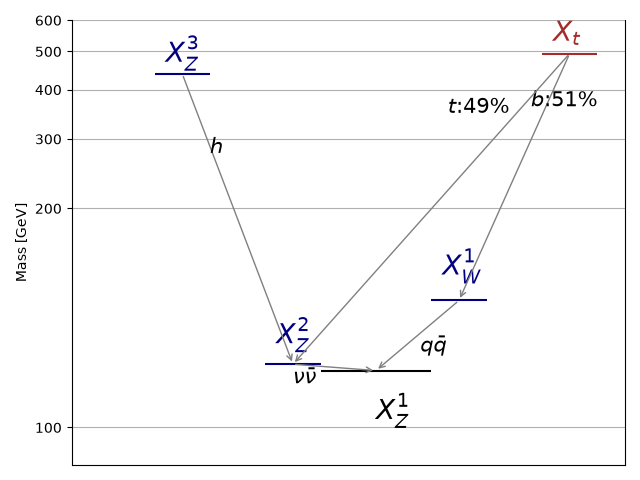
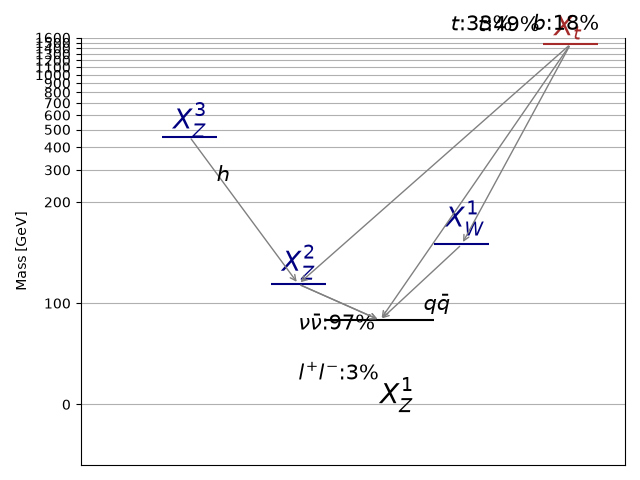
automated update by plotHiscore.py to rundir5_320:     K=11.884 TL=22.13 walkerid=506

diff --git a/protomodels/rundir5_320/rawnumbers.html b/protomodels/rundir5_320/rawnumbers.html
@@ -1,117 +1,11 @@
 <table>
 <tr><th>Analysis Name</th><th>Type</th><th>Dataset</th><th>Topos</th><th>Observed</th><th>Expected</th><th>Approx &sigma;</th><th>Particles</th>
 </tr>
-<tr><td><a href=https://atlas.web.cern.ch/Atlas/GROUPS/PHYSICS/PAPERS/EXOT-2018-06/>ATLAS-EXOT-2018-06</a></td><td>em</td> <td>EM10</td><td>TChiISR, TChiZISRqq</td><td>413</td><td>359.00 +/- 10.00</td><td style="text-align:right">2.5 &sigma;</td><td style="text-align:right">X<sup>1</sup><sub>W</sub>, X<sup>2</sup><sub>Z</sub>, X<sup>1</sup><sub>Z</sub></td></tr>
-<tr><td><a href=http://cms-results.web.cern.ch/cms-results/public-results/publications/EXO-20-004/>CMS-EXO-20-004</a></td><td>comb</td> <td>-</td><td>TChiISR, TChiZISRqq</td><td> 1e+02 fb </td><td> 9e+01 fb</td><td style="text-align:right">2.4 &sigma;</td><td style="text-align:right">X<sup>1</sup><sub>W</sub>, X<sup>2</sup><sub>Z</sub>, X<sup>1</sup><sub>Z</sub></td></tr>
-<tr><td><a href=http://cms-results.web.cern.ch/cms-results/public-results/publications/SUS-20-004/>CMS-SUS-20-004</a></td><td>comb</td> <td>-</td><td>TChiHH</td><td> 0.3 fb </td><td> 0.2 fb</td><td style="text-align:right">2.2 &sigma;</td><td style="text-align:right">X<sup>3</sup><sub>Z</sub>, X<sup>2</sup><sub>Z</sub>, X<sup>1</sup><sub>Z</sub></td></tr>
-<tr><td><a href=https://atlas.web.cern.ch/Atlas/GROUPS/PHYSICS/PAPERS/SUSY-2018-12/>ATLAS-SUSY-2018-12</a></td><td>em</td> <td>SRBTT</td><td>T2tt</td><td>67</td><td>46.00 +/- 7.00</td><td style="text-align:right">2.0 &sigma;</td><td style="text-align:right">X<sup>1</sup><sub>Z</sub>, X<sub>t</sub></td></tr>
-<tr><td><a href=https://atlas.web.cern.ch/Atlas/GROUPS/PHYSICS/PAPERS/SUSY-2016-16/>ATLAS-SUSY-2016-16</a></td><td>em</td> <td>tN_med</td><td>T2tt</td><td>50</td><td>36.30 +/- 6.60</td><td style="text-align:right">1.4 &sigma;</td><td style="text-align:right">X<sup>1</sup><sub>Z</sub>, X<sub>t</sub></td></tr>
-<tr><td><a href=https://atlas.web.cern.ch/Atlas/GROUPS/PHYSICS/PAPERS/SUSY-2018-08/>ATLAS-SUSY-2018-08</a></td><td>em</td> <td>SRSF140</td><td>T2tt</td><td>9</td><td>5.10 +/- 0.90</td><td style="text-align:right">1.3 &sigma;</td><td style="text-align:right">X<sup>1</sup><sub>Z</sub>, X<sub>t</sub></td></tr>
-<tr><td><a href=https://twiki.cern.ch/twiki/bin/view/CMSPublic/PhysicsResultsSUS13015>CMS-PAS-SUS-13-015</a></td><td>em</td> <td>pTmiss350_Nb2</td><td>T2tt</td><td>15</td><td>8.60 +/- 7.10</td><td style="text-align:right">0.8 &sigma;</td><td style="text-align:right">X<sup>1</sup><sub>Z</sub>, X<sub>t</sub></td></tr>
-<tr><td><a href=https://atlas.web.cern.ch/Atlas/GROUPS/PHYSICS/PAPERS/SUSY-2013-16/>ATLAS-SUSY-2013-16</a></td><td>em</td> <td>SRA4</td><td>T2tt</td><td>4</td><td>2.40 +/- 0.70</td><td style="text-align:right">0.7 &sigma;</td><td style="text-align:right">X<sup>1</sup><sub>Z</sub>, X<sub>t</sub></td></tr>
-<tr><td><a href=https://atlas.web.cern.ch/Atlas/GROUPS/PHYSICS/PAPERS/SUSY-2013-15/>ATLAS-SUSY-2013-15</a></td><td>em</td> <td>tNboost</td><td>T2tt</td><td>5</td><td>3.30 +/- 0.70</td><td style="text-align:right">0.7 &sigma;</td><td style="text-align:right">X<sup>1</sup><sub>Z</sub>, X<sub>t</sub></td></tr>
-<tr><td><a href=http://cms-results.web.cern.ch/cms-results/public-results/publications/SUS-16-050/index.html>CMS-SUS-16-050-agg</a></td><td>comb</td> <td>-</td><td>T2tt</td><td> 2 fb </td><td> 2 fb</td><td style="text-align:right">0.1 &sigma;</td><td style="text-align:right">X<sup>2</sup><sub>Z</sub>, X<sup>1</sup><sub>Z</sub>, X<sub>t</sub></td></tr>
-<tr><td><a href=https://cms-results.web.cern.ch/cms-results/public-results/publications/SUS-13-011/index.html>CMS-SUS-13-011</a></td><td>em</td> <td>LM150</td><td>T2tt</td><td>227</td><td>251.00 +/- 50.00</td><td style="text-align:right">-0.5 &sigma;</td><td style="text-align:right">X<sup>1</sup><sub>Z</sub>, X<sub>t</sub></td></tr>
-<tr><td><a href=https://atlas.web.cern.ch/Atlas/GROUPS/PHYSICS/CONFNOTES/ATLAS-CONF-2013-048/>ATLAS-CONF-2013-048</a></td><td>em</td> <td>SR M90</td><td>T2tt</td><td>260</td><td>300.00 +/- 40.00</td><td style="text-align:right">-0.9 &sigma;</td><td style="text-align:right">X<sup>1</sup><sub>Z</sub>, X<sub>t</sub></td></tr>
+<tr><td><a href=https://atlas.web.cern.ch/Atlas/GROUPS/PHYSICS/PAPERS/SUSY-2018-16/>ATLAS-SUSY-2018-16-hino</a></td><td>em</td> <td>SR_ewk_2l_med</td><td>TChiZoff</td><td>170</td><td>112.40 +/- 12.60</td><td style="text-align:right">3.3 &sigma;</td><td style="text-align:right">X<sup>2</sup><sub>Z</sub>, X<sup>1</sup><sub>Z</sub></td></tr>
+<tr><td><a href=http://cms-results.web.cern.ch/cms-results/public-results/publications/EXO-20-004/>CMS-EXO-20-004</a></td><td>comb</td> <td>-</td><td>TChiISR, TChiZISRll, TChiZISRqq</td><td> 2e+02 fb </td><td> 1e+02 fb</td><td style="text-align:right">3.0 &sigma;</td><td style="text-align:right">X<sup>1</sup><sub>W</sub>, X<sup>2</sup><sub>Z</sub>, X<sup>1</sup><sub>Z</sub></td></tr>
+<tr><td><a href=https://atlas.web.cern.ch/Atlas/GROUPS/PHYSICS/PAPERS/EXOT-2018-06/>ATLAS-EXOT-2018-06</a></td><td>em</td> <td>EM10</td><td>TChiISR, TChiZISRll, TChiZISRqq</td><td>413</td><td>359.00 +/- 10.00</td><td style="text-align:right">2.4 &sigma;</td><td style="text-align:right">X<sup>1</sup><sub>W</sub>, X<sup>2</sup><sub>Z</sub>, X<sup>1</sup><sub>Z</sub></td></tr>
+<tr><td><a href=http://cms-results.web.cern.ch/cms-results/public-results/publications/SUS-20-004/>CMS-SUS-20-004</a></td><td>comb</td> <td>-</td><td>TChiHH</td><td> 0.3 fb </td><td> 0.2 fb</td><td style="text-align:right">2.1 &sigma;</td><td style="text-align:right">X<sup>3</sup><sub>Z</sub>, X<sup>2</sup><sub>Z</sub></td></tr>
 </table>
 <table style='color:grey'>
-<tr><th>Not in Best Combo</th><th>Type</th><th>Dataset</th><th>Topos</th><th>Observed</th><th>Expected</th><th>Approx &sigma;</th><th>Particles</th><tr><td><a href=https://atlas.web.cern.ch/Atlas/GROUPS/PHYSICS/PAPERS/SUSY-2015-02/>ATLAS-SUSY-2015-02</a></td><td>em</td> <td>SR1</td><td>T2tt</td><td>12</td><td>5.50 +/- 0.72</td><td style="text-align:right">2.2 &sigma;</td><td style="text-align:right">X<sup>1</sup><sub>Z</sub>, X<sub>t</sub></td></tr>
-<tr><td><a href=https://atlas.web.cern.ch/Atlas/GROUPS/PHYSICS/CONFNOTES/ATLAS-CONF-2013-047/>ATLAS-CONF-2013-047</a></td><td>em</td> <td>E Loose</td><td>T2tt</td><td>166</td><td>113.00 +/- 21.00</td><td style="text-align:right">2.2 &sigma;</td><td style="text-align:right">X<sup>1</sup><sub>Z</sub>, X<sub>t</sub></td></tr>
-<tr><td><a href=https://cms-results.web.cern.ch/cms-results/public-results/publications/SUS-13-012/index.html>CMS-SUS-13-012</a></td><td>em</td> <td>6NJet8_500HT800 ...</td><td>T2tt, T6bbWWoff</td><td>9</td><td>0.80 +/- 3.30</td><td style="text-align:right">1.9 &sigma;</td><td style="text-align:right">X<sup>1</sup><sub>W</sub>, X<sup>1</sup><sub>Z</sub>, X<sub>t</sub></td></tr>
-<tr><td><a href=https://atlas.web.cern.ch/Atlas/GROUPS/PHYSICS/CONFNOTES/ATLAS-CONF-2013-047/>ATLAS-CONF-2013-047</a></td><td>em</td> <td>A Loose</td><td>T2tt</td><td>5333</td><td>4700.00 +/- 500.00</td><td style="text-align:right">1.3 &sigma;</td><td style="text-align:right">X<sup>1</sup><sub>Z</sub>, X<sub>t</sub></td></tr>
-<tr><td><a href=https://cms-results.web.cern.ch/cms-results/public-results/publications/SUS-13-012/index.html>CMS-SUS-13-012</a></td><td>em</td> <td>3NJet6_1000HT12 ...</td><td>T2tt, T6bbWWoff</td><td>32</td><td>22.80 +/- 5.20</td><td style="text-align:right">1.2 &sigma;</td><td style="text-align:right">X<sup>1</sup><sub>W</sub>, X<sup>2</sup><sub>Z</sub>, X<sup>1</sup><sub>Z</sub>, X<sub>t</sub></td></tr>
-<tr><td><a href=https://cms-results.web.cern.ch/cms-results/public-results/publications/SUS-13-012/index.html>CMS-SUS-13-012</a></td><td>em</td> <td>3NJet6_1500HTin ...</td><td>T2tt, T6bbWWoff</td><td>39</td><td>29.70 +/- 5.80</td><td style="text-align:right">1.1 &sigma;</td><td style="text-align:right">X<sup>1</sup><sub>W</sub>, X<sup>1</sup><sub>Z</sub>, X<sub>t</sub></td></tr>
-<tr><td><a href=https://atlas.web.cern.ch/Atlas/GROUPS/PHYSICS/CONFNOTES/ATLAS-CONF-2013-047/>ATLAS-CONF-2013-047</a></td><td>em</td> <td>E Medium</td><td>T2tt</td><td>41</td><td>30.00 +/- 8.00</td><td style="text-align:right">1.1 &sigma;</td><td style="text-align:right">X<sup>1</sup><sub>Z</sub>, X<sub>t</sub></td></tr>
-<tr><td><a href=https://atlas.web.cern.ch/Atlas/GROUPS/PHYSICS/CONFNOTES/ATLAS-CONF-2013-062/>ATLAS-CONF-2013-062</a></td><td>em</td> <td>incHL3j_m</td><td>T2tt</td><td>5</td><td>2.70 +/- 0.90</td><td style="text-align:right">1.0 &sigma;</td><td style="text-align:right">X<sup>2</sup><sub>Z</sub>, X<sub>t</sub></td></tr>
-<tr><td><a href=https://atlas.web.cern.ch/Atlas/GROUPS/PHYSICS/PAPERS/SUSY-2013-04/>ATLAS-SUSY-2013-04</a></td><td>em</td> <td>GtGrid_SR_10ij5 ...</td><td>T2tt</td><td>3</td><td>1.37 +/- 0.35</td><td style="text-align:right">1.0 &sigma;</td><td style="text-align:right">X<sup>1</sup><sub>Z</sub>, X<sub>t</sub></td></tr>
-<tr><td><a href=https://cms-results.web.cern.ch/cms-results/public-results/publications/SUS-13-012/index.html>CMS-SUS-13-012</a></td><td>em</td> <td>8NJetinf_500HT8 ...</td><td>T2tt, T6bbWWoff</td><td>8</td><td>4.80 +/- 2.30</td><td style="text-align:right">0.9 &sigma;</td><td style="text-align:right">X<sup>1</sup><sub>W</sub>, X<sup>2</sup><sub>Z</sub>, X<sup>1</sup><sub>Z</sub>, X<sub>t</sub></td></tr>
-<tr><td><a href=https://atlas.web.cern.ch/Atlas/GROUPS/PHYSICS/CONFNOTES/ATLAS-CONF-2013-061/>ATLAS-CONF-2013-061</a></td><td>em</td> <td>SR-0l-4j-B</td><td>T2tt</td><td>3</td><td>1.30 +/- 1.00</td><td style="text-align:right">0.9 &sigma;</td><td style="text-align:right">X<sup>1</sup><sub>Z</sub>, X<sub>t</sub></td></tr>
-<tr><td><a href=https://cms-results.web.cern.ch/cms-results/public-results/publications/SUS-13-012/index.html>CMS-SUS-13-012</a></td><td>em</td> <td>3NJet6_800HT100 ...</td><td>T2tt, T6bbWWoff</td><td>124</td><td>108.00 +/- 15.00</td><td style="text-align:right">0.9 &sigma;</td><td style="text-align:right">X<sup>1</sup><sub>W</sub>, X<sup>2</sup><sub>Z</sub>, X<sup>1</sup><sub>Z</sub>, X<sub>t</sub></td></tr>
-<tr><td><a href=https://cms-results.web.cern.ch/cms-results/public-results/publications/SUS-13-012/index.html>CMS-SUS-13-012</a></td><td>em</td> <td>3NJet6_1250HT15 ...</td><td>T2tt, T6bbWWoff</td><td>23</td><td>17.60 +/- 4.10</td><td style="text-align:right">0.8 &sigma;</td><td style="text-align:right">X<sup>1</sup><sub>W</sub>, X<sup>1</sup><sub>Z</sub>, X<sub>t</sub></td></tr>
-<tr><td><a href=https://atlas.web.cern.ch/Atlas/GROUPS/PHYSICS/CONFNOTES/ATLAS-CONF-2013-062/>ATLAS-CONF-2013-062</a></td><td>em</td> <td>SL1b_high</td><td>T2tt</td><td>6</td><td>4.00 +/- 1.10</td><td style="text-align:right">0.7 &sigma;</td><td style="text-align:right">X<sup>1</sup><sub>Z</sub>, X<sub>t</sub></td></tr>
-<tr><td><a href=https://atlas.web.cern.ch/Atlas/GROUPS/PHYSICS/CONFNOTES/ATLAS-CONF-2013-047/>ATLAS-CONF-2013-047</a></td><td>em</td> <td>E Tight</td><td>T2tt</td><td>5</td><td>2.90 +/- 1.80</td><td style="text-align:right">0.7 &sigma;</td><td style="text-align:right">X<sup>1</sup><sub>Z</sub>, X<sub>t</sub></td></tr>
-<tr><td><a href=https://cms-results.web.cern.ch/cms-results/public-results/publications/SUS-13-012/index.html>CMS-SUS-13-012</a></td><td>em</td> <td>6NJet8_800HT100 ...</td><td>T2tt, T6bbWWoff</td><td>35</td><td>28.60 +/- 6.90</td><td style="text-align:right">0.7 &sigma;</td><td style="text-align:right">X<sup>1</sup><sub>W</sub>, X<sup>1</sup><sub>Z</sub>, X<sub>t</sub></td></tr>
-<tr><td><a href=https://atlas.web.cern.ch/Atlas/GROUPS/PHYSICS/PAPERS/SUSY-2013-04/>ATLAS-SUSY-2013-04</a></td><td>em</td> <td>GtGrid_SR_8ij80 ...</td><td>T2tt</td><td>2</td><td>0.90 +/- 0.60</td><td style="text-align:right">0.7 &sigma;</td><td style="text-align:right">X<sup>1</sup><sub>Z</sub>, X<sub>t</sub></td></tr>
-<tr><td><a href=https://cms-results.web.cern.ch/cms-results/public-results/publications/SUS-13-012/index.html>CMS-SUS-13-012</a></td><td>em</td> <td>6NJet8_500HT800 ...</td><td>T2tt, T6bbWWoff</td><td>62</td><td>52.00 +/- 12.00</td><td style="text-align:right">0.7 &sigma;</td><td style="text-align:right">X<sup>1</sup><sub>W</sub>, X<sup>2</sup><sub>Z</sub>, X<sup>1</sup><sub>Z</sub>, X<sub>t</sub></td></tr>
-<tr><td><a href=https://atlas.web.cern.ch/Atlas/GROUPS/PHYSICS/PAPERS/SUSY-2013-04/>ATLAS-SUSY-2013-04</a></td><td>em</td> <td>GtGrid_SR_9ej50 ...</td><td>T2tt</td><td>5</td><td>3.30 +/- 0.70</td><td style="text-align:right">0.7 &sigma;</td><td style="text-align:right">X<sup>1</sup><sub>Z</sub>, X<sub>t</sub></td></tr>
-<tr><td><a href=https://cms-results.web.cern.ch/cms-results/public-results/publications/SUS-13-012/index.html>CMS-SUS-13-012</a></td><td>em</td> <td>3NJet6_1000HT12 ...</td><td>T2tt, T6bbWWoff</td><td>335</td><td>305.00 +/- 41.00</td><td style="text-align:right">0.7 &sigma;</td><td style="text-align:right">X<sup>1</sup><sub>W</sub>, X<sup>1</sup><sub>Z</sub>, X<sub>t</sub></td></tr>
-<tr><td><a href=https://atlas.web.cern.ch/Atlas/GROUPS/PHYSICS/PAPERS/SUSY-2013-04/>ATLAS-SUSY-2013-04</a></td><td>em</td> <td>GtGrid_SR_8ej50 ...</td><td>T2tt</td><td>40</td><td>35.00 +/- 4.00</td><td style="text-align:right">0.6 &sigma;</td><td style="text-align:right">X<sup>1</sup><sub>Z</sub>, X<sub>t</sub></td></tr>
-<tr><td><a href=https://atlas.web.cern.ch/Atlas/GROUPS/PHYSICS/CONFNOTES/ATLAS-CONF-2013-054/>ATLAS-CONF-2013-054</a></td><td>em</td> <td>8j50 flavor 0 b ...</td><td>T2tt</td><td>40</td><td>35.00 +/- 4.00</td><td style="text-align:right">0.7 &sigma;</td><td style="text-align:right">X<sup>1</sup><sub>Z</sub>, X<sub>t</sub></td></tr>
-<tr><td><a href=https://cms-results.web.cern.ch/cms-results/public-results/publications/SUS-13-012/index.html>CMS-SUS-13-012</a></td><td>em</td> <td>8NJetinf_1000HT ...</td><td>T2tt, T6bbWWoff</td><td>8</td><td>5.60 +/- 2.30</td><td style="text-align:right">0.6 &sigma;</td><td style="text-align:right">X<sup>1</sup><sub>W</sub>, X<sup>2</sup><sub>Z</sub>, X<sup>1</sup><sub>Z</sub>, X<sub>t</sub></td></tr>
-<tr><td><a href=http://cms-results.web.cern.ch/cms-results/public-results/publications/SUS-16-033/index.html>CMS-SUS-16-033</a></td><td>em</td> <td>SR6_Njet2_Nb2_H ...</td><td>T2tt</td><td>216</td><td>196.00 +/- 28.00</td><td style="text-align:right">0.6 &sigma;</td><td style="text-align:right">X<sup>1</sup><sub>Z</sub>, X<sub>t</sub></td></tr>
-<tr><td><a href=https://atlas.web.cern.ch/Atlas/GROUPS/PHYSICS/CONFNOTES/ATLAS-CONF-2013-047/>ATLAS-CONF-2013-047</a></td><td>em</td> <td>A Medium</td><td>T2tt</td><td>135</td><td>122.00 +/- 18.00</td><td style="text-align:right">0.6 &sigma;</td><td style="text-align:right">X<sup>1</sup><sub>Z</sub>, X<sub>t</sub></td></tr>
-<tr><td><a href=http://cms-results.web.cern.ch/cms-results/public-results/publications/SUS-16-033/index.html>CMS-SUS-16-033</a></td><td>em</td> <td>SR1_Njet2_Nb0_H ...</td><td>T2tt</td><td>7838</td><td>7584.00 +/- 433.00</td><td style="text-align:right">0.6 &sigma;</td><td style="text-align:right">X<sup>1</sup><sub>Z</sub>, X<sub>t</sub></td></tr>
-<tr><td><a href=https://atlas.web.cern.ch/Atlas/GROUPS/PHYSICS/CONFNOTES/ATLAS-CONF-2013-037/>ATLAS-CONF-2013-037</a></td><td>em</td> <td>SRtN3</td><td>T2tt</td><td>7</td><td>5.00 +/- 2.00</td><td style="text-align:right">0.6 &sigma;</td><td style="text-align:right">X<sup>1</sup><sub>Z</sub>, X<sub>t</sub></td></tr>
-<tr><td><a href=https://atlas.web.cern.ch/Atlas/GROUPS/PHYSICS/CONFNOTES/ATLAS-CONF-2013-062/>ATLAS-CONF-2013-062</a></td><td>em</td> <td>SL1b_low</td><td>T2tt</td><td>8</td><td>6.10 +/- 1.40</td><td style="text-align:right">0.6 &sigma;</td><td style="text-align:right">X<sup>1</sup><sub>Z</sub>, X<sub>t</sub></td></tr>
-<tr><td><a href=https://atlas.web.cern.ch/Atlas/GROUPS/PHYSICS/PAPERS/SUSY-2013-04/>ATLAS-SUSY-2013-04</a></td><td>em</td> <td>GtGrid_SR_9ej50 ...</td><td>T2tt</td><td>8</td><td>6.10 +/- 1.70</td><td style="text-align:right">0.5 &sigma;</td><td style="text-align:right">X<sup>2</sup><sub>Z</sub>, X<sub>t</sub></td></tr>
-<tr><td><a href=https://cms-results.web.cern.ch/cms-results/public-results/publications/SUS-13-012/index.html>CMS-SUS-13-012</a></td><td>em</td> <td>3NJet6_500HT800 ...</td><td>T2tt, T6bbWWoff</td><td>454</td><td>418.00 +/- 66.00</td><td style="text-align:right">0.5 &sigma;</td><td style="text-align:right">X<sup>1</sup><sub>W</sub>, X<sup>1</sup><sub>Z</sub>, X<sub>t</sub></td></tr>
-<tr><td><a href=https://cms-results.web.cern.ch/cms-results/public-results/publications/SUS-13-012/index.html>CMS-SUS-13-012</a></td><td>em</td> <td>6NJet8_1250HT15 ...</td><td>T2tt, T6bbWWoff</td><td>2</td><td>0.50 +/- 2.60</td><td style="text-align:right">0.5 &sigma;</td><td style="text-align:right">X<sup>1</sup><sub>W</sub>, X<sup>1</sup><sub>Z</sub>, X<sub>t</sub></td></tr>
-<tr><td><a href=http://cms-results.web.cern.ch/cms-results/public-results/publications/SUS-16-033/index.html>CMS-SUS-16-033</a></td><td>em</td> <td>SR12_Njet5_Nb1_ ...</td><td>T2tt</td><td>48</td><td>42.20 +/- 9.70</td><td style="text-align:right">0.5 &sigma;</td><td style="text-align:right">X<sup>1</sup><sub>Z</sub>, X<sub>t</sub></td></tr>
-<tr><td><a href=https://atlas.web.cern.ch/Atlas/GROUPS/PHYSICS/CONFNOTES/ATLAS-CONF-2013-053/>ATLAS-CONF-2013-053</a></td><td>em</td> <td>SRA mCT150</td><td>T2tt</td><td>102</td><td>94.00 +/- 13.00</td><td style="text-align:right">0.5 &sigma;</td><td style="text-align:right">X<sup>1</sup><sub>Z</sub>, X<sub>t</sub></td></tr>
-<tr><td><a href=http://cms-results.web.cern.ch/cms-results/public-results/publications/SUS-16-033/index.html>CMS-SUS-16-033</a></td><td>em</td> <td>SR7_Njet3_Nb1_H ...</td><td>T2tt</td><td>123</td><td>113.00 +/- 18.00</td><td style="text-align:right">0.5 &sigma;</td><td style="text-align:right">X<sup>1</sup><sub>Z</sub>, X<sub>t</sub></td></tr>
-<tr><td><a href=https://atlas.web.cern.ch/Atlas/GROUPS/PHYSICS/CONFNOTES/ATLAS-CONF-2013-047/>ATLAS-CONF-2013-047</a></td><td>em</td> <td>D</td><td>T2tt</td><td>18</td><td>15.00 +/- 5.00</td><td style="text-align:right">0.4 &sigma;</td><td style="text-align:right">X<sup>1</sup><sub>Z</sub>, X<sub>t</sub></td></tr>
-<tr><td><a href=https://atlas.web.cern.ch/Atlas/GROUPS/PHYSICS/CONFNOTES/ATLAS-CONF-2013-047/>ATLAS-CONF-2013-047</a></td><td>em</td> <td>C Medium</td><td>T2tt</td><td>228</td><td>210.00 +/- 40.00</td><td style="text-align:right">0.4 &sigma;</td><td style="text-align:right">X<sup>1</sup><sub>Z</sub>, X<sub>t</sub></td></tr>
-<tr><td><a href=https://cms-results.web.cern.ch/cms-results/public-results/publications/SUS-13-012/index.html>CMS-SUS-13-012</a></td><td>em</td> <td>6NJet8_1000HT12 ...</td><td>T2tt, T6bbWWoff</td><td>4</td><td>2.20 +/- 3.80</td><td style="text-align:right">0.4 &sigma;</td><td style="text-align:right">X<sup>1</sup><sub>W</sub>, X<sup>1</sup><sub>Z</sub>, X<sub>t</sub></td></tr>
-<tr><td><a href=https://cms-results.web.cern.ch/cms-results/public-results/publications/SUS-13-012/index.html>CMS-SUS-13-012</a></td><td>em</td> <td>3NJet6_1500HTin ...</td><td>T2tt, T6bbWWoff</td><td>94</td><td>86.00 +/- 17.00</td><td style="text-align:right">0.4 &sigma;</td><td style="text-align:right">X<sup>1</sup><sub>W</sub>, X<sup>1</sup><sub>Z</sub>, X<sub>t</sub></td></tr>
-<tr><td><a href=https://atlas.web.cern.ch/Atlas/GROUPS/PHYSICS/CONFNOTES/ATLAS-CONF-2013-062/>ATLAS-CONF-2013-062</a></td><td>em</td> <td>SL3j</td><td>T2tt</td><td>7</td><td>5.60 +/- 1.60</td><td style="text-align:right">0.4 &sigma;</td><td style="text-align:right">X<sup>1</sup><sub>Z</sub>, X<sub>t</sub></td></tr>
-<tr><td><a href=http://cms-results.web.cern.ch/cms-results/public-results/publications/SUS-16-033/index.html>CMS-SUS-16-033</a></td><td>em</td> <td>SR9_NJet5_Nb2_H ...</td><td>T2tt</td><td>6</td><td>4.40 +/- 3.40</td><td style="text-align:right">0.4 &sigma;</td><td style="text-align:right">X<sup>1</sup><sub>Z</sub>, X<sub>t</sub></td></tr>
-<tr><td><a href=https://cms-results.web.cern.ch/cms-results/public-results/publications/SUS-13-012/index.html>CMS-SUS-13-012</a></td><td>em</td> <td>3NJet6_500HT800 ...</td><td>T2tt, T6bbWWoff</td><td>62</td><td>57.40 +/- 11.20</td><td style="text-align:right">0.3 &sigma;</td><td style="text-align:right">X<sup>1</sup><sub>W</sub>, X<sup>2</sup><sub>Z</sub>, X<sup>1</sup><sub>Z</sub>, X<sub>t</sub></td></tr>
-<tr><td><a href=https://atlas.web.cern.ch/Atlas/GROUPS/PHYSICS/PAPERS/SUSY-2013-04/>ATLAS-SUSY-2013-04</a></td><td>em</td> <td>GtGrid_SR_8ej50 ...</td><td>T2tt</td><td>44</td><td>40.00 +/- 10.00</td><td style="text-align:right">0.3 &sigma;</td><td style="text-align:right">X<sup>1</sup><sub>Z</sub>, X<sub>t</sub></td></tr>
-<tr><td><a href=https://atlas.web.cern.ch/Atlas/GROUPS/PHYSICS/CONFNOTES/ATLAS-CONF-2013-054/>ATLAS-CONF-2013-054</a></td><td>em</td> <td>8j50 flavor 1 b ...</td><td>T2tt</td><td>44</td><td>40.00 +/- 10.00</td><td style="text-align:right">0.3 &sigma;</td><td style="text-align:right">X<sup>1</sup><sub>Z</sub>, X<sub>t</sub></td></tr>
-<tr><td><a href=https://cms-results.web.cern.ch/cms-results/public-results/publications/SUS-13-012/index.html>CMS-SUS-13-012</a></td><td>em</td> <td>3NJet6_800HT100 ...</td><td>T2tt, T6bbWWoff</td><td>808</td><td>777.00 +/- 107.00</td><td style="text-align:right">0.3 &sigma;</td><td style="text-align:right">X<sup>1</sup><sub>W</sub>, X<sup>2</sup><sub>Z</sub>, X<sup>1</sup><sub>Z</sub>, X<sub>t</sub></td></tr>
-<tr><td><a href=http://cms-results.web.cern.ch/cms-results/public-results/publications/SUS-16-033/index.html>CMS-SUS-16-033</a></td><td>em</td> <td>SR3_Njet5_Nb0_H ...</td><td>T2tt</td><td>819</td><td>806.00 +/- 57.00</td><td style="text-align:right">0.2 &sigma;</td><td style="text-align:right">X<sup>2</sup><sub>Z</sub>, X<sub>t</sub></td></tr>
-<tr><td><a href=https://atlas.web.cern.ch/Atlas/GROUPS/PHYSICS/PAPERS/SUSY-2013-04/>ATLAS-SUSY-2013-04</a></td><td>em</td> <td>GtGrid_SR_7ej80 ...</td><td>T2tt</td><td>12</td><td>11.00 +/- 2.20</td><td style="text-align:right">0.2 &sigma;</td><td style="text-align:right">X<sup>1</sup><sub>Z</sub>, X<sub>t</sub></td></tr>
-<tr><td><a href=https://cms-results.web.cern.ch/cms-results/public-results/publications/SUS-13-012/index.html>CMS-SUS-13-012</a></td><td>em</td> <td>3NJet6_1000HT12 ...</td><td>T2tt, T6bbWWoff</td><td>34</td><td>32.30 +/- 6.10</td><td style="text-align:right">0.2 &sigma;</td><td style="text-align:right">X<sup>1</sup><sub>W</sub>, X<sup>2</sup><sub>Z</sub>, X<sup>1</sup><sub>Z</sub>, X<sub>t</sub></td></tr>
-<tr><td><a href=https://atlas.web.cern.ch/Atlas/GROUPS/PHYSICS/CONFNOTES/ATLAS-CONF-2013-037/>ATLAS-CONF-2013-037</a></td><td>em</td> <td>SRtN2</td><td>T2tt</td><td>14</td><td>13.00 +/- 3.00</td><td style="text-align:right">0.2 &sigma;</td><td style="text-align:right">X<sup>1</sup><sub>Z</sub>, X<sub>t</sub></td></tr>
-<tr><td><a href=https://cms-results.web.cern.ch/cms-results/public-results/publications/SUS-13-012/index.html>CMS-SUS-13-012</a></td><td>em</td> <td>8NJetinf_800HT1 ...</td><td>T2tt, T6bbWWoff</td><td>9</td><td>8.30 +/- 3.40</td><td style="text-align:right">0.1 &sigma;</td><td style="text-align:right">X<sup>1</sup><sub>W</sub>, X<sup>2</sup><sub>Z</sub>, X<sup>1</sup><sub>Z</sub>, X<sub>t</sub></td></tr>
-<tr><td><a href=https://cms-results.web.cern.ch/cms-results/public-results/publications/SUS-13-012/index.html>CMS-SUS-13-012</a></td><td>em</td> <td>3NJet6_500HT800 ...</td><td>T2tt, T6bbWWoff</td><td>6159</td><td>6088.00 +/- 665.00</td><td style="text-align:right">0.1 &sigma;</td><td style="text-align:right">X<sup>1</sup><sub>W</sub>, X<sup>1</sup><sub>Z</sub>, X<sub>t</sub></td></tr>
-<tr><td><a href=https://cms-results.web.cern.ch/cms-results/public-results/publications/SUS-13-012/index.html>CMS-SUS-13-012</a></td><td>em</td> <td>3NJet6_500HT800 ...</td><td>T2tt, T6bbWWoff</td><td>2305</td><td>2278.00 +/- 266.00</td><td style="text-align:right">0.1 &sigma;</td><td style="text-align:right">X<sup>1</sup><sub>W</sub>, X<sup>1</sup><sub>Z</sub>, X<sub>t</sub></td></tr>
-<tr><td><a href=https://atlas.web.cern.ch/Atlas/GROUPS/PHYSICS/CONFNOTES/ATLAS-CONF-2013-062/>ATLAS-CONF-2013-062</a></td><td>em</td> <td>incHL5j_e</td><td>T2tt</td><td>4</td><td>3.60 +/- 1.00</td><td style="text-align:right">0.1 &sigma;</td><td style="text-align:right">X<sup>1</sup><sub>Z</sub>, X<sub>t</sub></td></tr>
-<tr><td><a href=https://atlas.web.cern.ch/Atlas/GROUPS/PHYSICS/CONFNOTES/ATLAS-CONF-2013-053/>ATLAS-CONF-2013-053</a></td><td>em</td> <td>SRB</td><td>T2tt</td><td>65</td><td>64.00 +/- 10.00</td><td style="text-align:right">0.1 &sigma;</td><td style="text-align:right">X<sup>1</sup><sub>Z</sub>, X<sub>t</sub></td></tr>
-<tr><td><a href=https://atlas.web.cern.ch/Atlas/GROUPS/PHYSICS/CONFNOTES/ATLAS-CONF-2013-037/>ATLAS-CONF-2013-037</a></td><td>em</td> <td>SRbC2</td><td>T2tt</td><td>25</td><td>25.00 +/- 18.00</td><td style="text-align:right">-0.0 &sigma;</td><td style="text-align:right">X<sup>1</sup><sub>Z</sub>, X<sub>t</sub></td></tr>
-<tr><td><a href=https://atlas.web.cern.ch/Atlas/GROUPS/PHYSICS/PAPERS/SUSY-2013-04/>ATLAS-SUSY-2013-04</a></td><td>em</td> <td>GtGrid_SR_7ej80 ...</td><td>T2tt</td><td>17</td><td>17.00 +/- 6.00</td><td style="text-align:right">-0.0 &sigma;</td><td style="text-align:right">X<sup>2</sup><sub>Z</sub>, X<sub>t</sub></td></tr>
-<tr><td><a href=https://atlas.web.cern.ch/Atlas/GROUPS/PHYSICS/CONFNOTES/ATLAS-CONF-2013-062/>ATLAS-CONF-2013-062</a></td><td>em</td> <td>SL2b_low</td><td>T2tt</td><td>24</td><td>24.10 +/- 4.10</td><td style="text-align:right">-0.0 &sigma;</td><td style="text-align:right">X<sup>2</sup><sub>Z</sub>, X<sub>t</sub></td></tr>
-<tr><td><a href=https://atlas.web.cern.ch/Atlas/GROUPS/PHYSICS/CONFNOTES/ATLAS-CONF-2013-062/>ATLAS-CONF-2013-062</a></td><td>em</td> <td>incHL3j_e</td><td>T2tt</td><td>4</td><td>3.90 +/- 1.00</td><td style="text-align:right">-0.1 &sigma;</td><td style="text-align:right">X<sup>1</sup><sub>Z</sub>, X<sub>t</sub></td></tr>
-<tr><td><a href=https://atlas.web.cern.ch/Atlas/GROUPS/PHYSICS/CONFNOTES/ATLAS-CONF-2013-061/>ATLAS-CONF-2013-061</a></td><td>em</td> <td>SR-0l-7j-A</td><td>T2tt</td><td>22</td><td>22.50 +/- 6.90</td><td style="text-align:right">-0.1 &sigma;</td><td style="text-align:right">X<sup>1</sup><sub>Z</sub>, X<sub>t</sub></td></tr>
-<tr><td><a href=https://atlas.web.cern.ch/Atlas/GROUPS/PHYSICS/CONFNOTES/ATLAS-CONF-2013-062/>ATLAS-CONF-2013-062</a></td><td>em</td> <td>incHL6j_e</td><td>T2tt</td><td>2</td><td>2.00 +/- 0.70</td><td style="text-align:right">-0.2 &sigma;</td><td style="text-align:right">X<sup>1</sup><sub>Z</sub>, X<sub>t</sub></td></tr>
-<tr><td><a href=https://cms-results.web.cern.ch/cms-results/public-results/publications/SUS-13-012/index.html>CMS-SUS-13-012</a></td><td>em</td> <td>6NJet8_1000HT12 ...</td><td>T2tt, T6bbWWoff</td><td>67</td><td>70.00 +/- 16.00</td><td style="text-align:right">-0.2 &sigma;</td><td style="text-align:right">X<sup>1</sup><sub>W</sub>, X<sup>2</sup><sub>Z</sub>, X<sup>1</sup><sub>Z</sub>, X<sub>t</sub></td></tr>
-<tr><td><a href=https://atlas.web.cern.ch/Atlas/GROUPS/PHYSICS/CONFNOTES/ATLAS-CONF-2013-093/>ATLAS-CONF-2013-093</a></td><td>em</td> <td>SRBh</td><td>T2tt</td><td>2</td><td>2.10 +/- 0.70</td><td style="text-align:right">-0.2 &sigma;</td><td style="text-align:right">X<sup>1</sup><sub>Z</sub>, X<sub>t</sub></td></tr>
-<tr><td><a href=https://cms-results.web.cern.ch/cms-results/public-results/publications/SUS-13-012/index.html>CMS-SUS-13-012</a></td><td>em</td> <td>6NJet8_1000HT12 ...</td><td>T2tt, T6bbWWoff</td><td>20</td><td>21.60 +/- 5.80</td><td style="text-align:right">-0.2 &sigma;</td><td style="text-align:right">X<sup>1</sup><sub>W</sub>, X<sup>1</sup><sub>Z</sub>, X<sub>t</sub></td></tr>
-<tr><td><a href=https://cms-results.web.cern.ch/cms-results/public-results/publications/SUS-13-012/index.html>CMS-SUS-13-012</a></td><td>em</td> <td>3NJet6_800HT100 ...</td><td>T2tt, T6bbWWoff</td><td>52</td><td>54.80 +/- 9.70</td><td style="text-align:right">-0.2 &sigma;</td><td style="text-align:right">X<sup>1</sup><sub>W</sub>, X<sup>1</sup><sub>Z</sub>, X<sub>t</sub></td></tr>
-<tr><td><a href=https://atlas.web.cern.ch/Atlas/GROUPS/PHYSICS/CONFNOTES/ATLAS-CONF-2013-054/>ATLAS-CONF-2013-054</a></td><td>em</td> <td>8j50 MJ 340</td><td>T2tt</td><td>69</td><td>75.00 +/- 19.00</td><td style="text-align:right">-0.3 &sigma;</td><td style="text-align:right">X<sup>1</sup><sub>Z</sub>, X<sub>t</sub></td></tr>
-<tr><td><a href=http://cms-results.web.cern.ch/cms-results/public-results/publications/SUS-16-033/index.html>CMS-SUS-16-033</a></td><td>em</td> <td>SR8_Njet5_Nb3_H ...</td><td>T2tt</td><td>17</td><td>19.50 +/- 8.40</td><td style="text-align:right">-0.3 &sigma;</td><td style="text-align:right">X<sup>2</sup><sub>Z</sub>, X<sub>t</sub></td></tr>
-<tr><td><a href=https://atlas.web.cern.ch/Atlas/GROUPS/PHYSICS/PAPERS/SUSY-2013-04/>ATLAS-SUSY-2013-04</a></td><td>em</td> <td>GtGrid_SR_9ej50 ...</td><td>T2tt</td><td>7</td><td>8.00 +/- 2.70</td><td style="text-align:right">-0.3 &sigma;</td><td style="text-align:right">X<sup>2</sup><sub>Z</sub>, X<sub>t</sub></td></tr>
-<tr><td><a href=https://atlas.web.cern.ch/Atlas/GROUPS/PHYSICS/CONFNOTES/ATLAS-CONF-2013-037/>ATLAS-CONF-2013-037</a></td><td>em</td> <td>SRbC3</td><td>T2tt</td><td>6</td><td>7.00 +/- 3.00</td><td style="text-align:right">-0.3 &sigma;</td><td style="text-align:right">X<sup>1</sup><sub>Z</sub>, X<sub>t</sub></td></tr>
-<tr><td><a href=https://atlas.web.cern.ch/Atlas/GROUPS/PHYSICS/PAPERS/SUSY-2013-04/>ATLAS-SUSY-2013-04</a></td><td>em</td> <td>GtGrid_SR_8ij80 ...</td><td>T2tt</td><td>3</td><td>3.30 +/- 2.20</td><td style="text-align:right">-0.3 &sigma;</td><td style="text-align:right">X<sup>1</sup><sub>Z</sub>, X<sub>t</sub></td></tr>
-<tr><td><a href=https://atlas.web.cern.ch/Atlas/GROUPS/PHYSICS/CONFNOTES/ATLAS-CONF-2013-037/>ATLAS-CONF-2013-037</a></td><td>em</td> <td>SRbC1</td><td>T2tt</td><td>456</td><td>482.00 +/- 76.00</td><td style="text-align:right">-0.3 &sigma;</td><td style="text-align:right">X<sup>1</sup><sub>Z</sub>, X<sub>t</sub></td></tr>
-<tr><td><a href=https://cms-results.web.cern.ch/cms-results/public-results/publications/SUS-13-012/index.html>CMS-SUS-13-012</a></td><td>em</td> <td>3NJet6_1000HT12 ...</td><td>T2tt, T6bbWWoff</td><td>129</td><td>137.00 +/- 20.00</td><td style="text-align:right">-0.3 &sigma;</td><td style="text-align:right">X<sup>1</sup><sub>W</sub>, X<sup>2</sup><sub>Z</sub>, X<sup>1</sup><sub>Z</sub>, X<sub>t</sub></td></tr>
-<tr><td><a href=https://atlas.web.cern.ch/Atlas/GROUPS/PHYSICS/PAPERS/SUSY-2015-02/>ATLAS-SUSY-2015-02</a></td><td>em</td> <td>SR3</td><td>T2tt</td><td>1</td><td>1.03 +/- 0.18</td><td style="text-align:right">-0.4 &sigma;</td><td style="text-align:right">X<sup>2</sup><sub>Z</sub>, X<sub>t</sub></td></tr>
-<tr><td><a href=https://cms-results.web.cern.ch/cms-results/public-results/publications/SUS-13-012/index.html>CMS-SUS-13-012</a></td><td>em</td> <td>6NJet8_500HT800 ...</td><td>T2tt, T6bbWWoff</td><td>266</td><td>290.00 +/- 65.00</td><td style="text-align:right">-0.4 &sigma;</td><td style="text-align:right">X<sup>1</sup><sub>W</sub>, X<sup>1</sup><sub>Z</sub>, X<sub>t</sub></td></tr>
-<tr><td><a href=https://cms-results.web.cern.ch/cms-results/public-results/publications/SUS-13-012/index.html>CMS-SUS-13-012</a></td><td>em</td> <td>6NJet8_1500HTin ...</td><td>T2tt, T6bbWWoff</td><td>18</td><td>21.10 +/- 8.10</td><td style="text-align:right">-0.4 &sigma;</td><td style="text-align:right">X<sup>1</sup><sub>W</sub>, X<sup>1</sup><sub>Z</sub>, X<sub>t</sub></td></tr>
-<tr><td><a href=https://cms-results.web.cern.ch/cms-results/public-results/publications/SUS-13-012/index.html>CMS-SUS-13-012</a></td><td>em</td> <td>3NJet6_1250HT15 ...</td><td>T2tt, T6bbWWoff</td><td>38</td><td>42.80 +/- 9.50</td><td style="text-align:right">-0.4 &sigma;</td><td style="text-align:right">X<sup>1</sup><sub>W</sub>, X<sup>2</sup><sub>Z</sub>, X<sup>1</sup><sub>Z</sub>, X<sub>t</sub></td></tr>
-<tr><td><a href=https://cms-results.web.cern.ch/cms-results/public-results/publications/SUS-13-012/index.html>CMS-SUS-13-012</a></td><td>em</td> <td>6NJet8_800HT100 ...</td><td>T2tt, T6bbWWoff</td><td>111</td><td>124.00 +/- 29.00</td><td style="text-align:right">-0.4 &sigma;</td><td style="text-align:right">X<sup>1</sup><sub>W</sub>, X<sup>1</sup><sub>Z</sub>, X<sub>t</sub></td></tr>
-<tr><td><a href=https://cms-results.web.cern.ch/cms-results/public-results/publications/SUS-13-012/index.html>CMS-SUS-13-012</a></td><td>em</td> <td>6NJet8_1250HT15 ...</td><td>T2tt, T6bbWWoff</td><td>24</td><td>28.00 +/- 8.20</td><td style="text-align:right">-0.4 &sigma;</td><td style="text-align:right">X<sup>1</sup><sub>W</sub>, X<sup>1</sup><sub>Z</sub>, X<sub>t</sub></td></tr>
-<tr><td><a href=https://atlas.web.cern.ch/Atlas/GROUPS/PHYSICS/CONFNOTES/ATLAS-CONF-2013-061/>ATLAS-CONF-2013-061</a></td><td>em</td> <td>SR-0l-7j-B</td><td>T2tt</td><td>3</td><td>3.60 +/- 2.50</td><td style="text-align:right">-0.4 &sigma;</td><td style="text-align:right">X<sup>1</sup><sub>Z</sub>, X<sub>t</sub></td></tr>
-<tr><td><a href=https://atlas.web.cern.ch/Atlas/GROUPS/PHYSICS/CONFNOTES/ATLAS-CONF-2013-062/>ATLAS-CONF-2013-062</a></td><td>em</td> <td>incHL5j_m</td><td>T2tt</td><td>2</td><td>2.50 +/- 0.80</td><td style="text-align:right">-0.5 &sigma;</td><td style="text-align:right">X<sup>2</sup><sub>Z</sub>, X<sub>t</sub></td></tr>
-<tr><td><a href=https://atlas.web.cern.ch/Atlas/GROUPS/PHYSICS/CONFNOTES/ATLAS-CONF-2013-047/>ATLAS-CONF-2013-047</a></td><td>em</td> <td>B Medium</td><td>T2tt</td><td>29</td><td>33.00 +/- 7.00</td><td style="text-align:right">-0.5 &sigma;</td><td style="text-align:right">X<sup>1</sup><sub>Z</sub>, X<sub>t</sub></td></tr>
-<tr><td><a href=https://atlas.web.cern.ch/Atlas/GROUPS/PHYSICS/CONFNOTES/ATLAS-CONF-2013-054/>ATLAS-CONF-2013-054</a></td><td>em</td> <td>8j50 flavor >=2 ...</td><td>T2tt</td><td>44</td><td>50.00 +/- 10.00</td><td style="text-align:right">-0.5 &sigma;</td><td style="text-align:right">X<sup>2</sup><sub>Z</sub>, X<sub>t</sub></td></tr>
-<tr><td><a href=https://atlas.web.cern.ch/Atlas/GROUPS/PHYSICS/PAPERS/SUSY-2013-04/>ATLAS-SUSY-2013-04</a></td><td>em</td> <td>GtGrid_SR_8ej50 ...</td><td>T2tt</td><td>44</td><td>50.00 +/- 10.00</td><td style="text-align:right">-0.5 &sigma;</td><td style="text-align:right">X<sup>1</sup><sub>Z</sub>, X<sub>t</sub></td></tr>
-<tr><td><a href=https://atlas.web.cern.ch/Atlas/GROUPS/PHYSICS/CONFNOTES/ATLAS-CONF-2013-024/>ATLAS-CONF-2013-024</a></td><td>em</td> <td>SR1: MET > 200</td><td>T2tt</td><td>15</td><td>17.50 +/- 3.20</td><td style="text-align:right">-0.5 &sigma;</td><td style="text-align:right">X<sup>1</sup><sub>Z</sub>, X<sub>t</sub></td></tr>
-<tr><td><a href=https://atlas.web.cern.ch/Atlas/GROUPS/PHYSICS/PAPERS/SUSY-2015-02/>ATLAS-SUSY-2015-02</a></td><td>em</td> <td>SR2</td><td>T2tt</td><td>1</td><td>1.25 +/- 0.26</td><td style="text-align:right">-0.5 &sigma;</td><td style="text-align:right">X<sup>1</sup><sub>Z</sub>, X<sub>t</sub></td></tr>
-<tr><td><a href=https://cms-results.web.cern.ch/cms-results/public-results/publications/SUS-13-012/index.html>CMS-SUS-13-012</a></td><td>em</td> <td>3NJet6_1250HT15 ...</td><td>T2tt, T6bbWWoff</td><td>98</td><td>109.00 +/- 18.00</td><td style="text-align:right">-0.6 &sigma;</td><td style="text-align:right">X<sup>1</sup><sub>W</sub>, X<sup>1</sup><sub>Z</sub>, X<sub>t</sub></td></tr>
-<tr><td><a href=https://cms-results.web.cern.ch/cms-results/public-results/publications/SUS-13-012/index.html>CMS-SUS-13-012</a></td><td>em</td> <td>3NJet6_800HT100 ...</td><td>T2tt, T6bbWWoff</td><td>305</td><td>330.00 +/- 40.00</td><td style="text-align:right">-0.6 &sigma;</td><td style="text-align:right">X<sup>1</sup><sub>W</sub>, X<sup>1</sup><sub>Z</sub>, X<sub>t</sub></td></tr>
-<tr><td><a href=https://cms-results.web.cern.ch/cms-results/public-results/publications/SUS-13-012/index.html>CMS-SUS-13-012</a></td><td>em</td> <td>8NJetinf_1250HT ...</td><td>T2tt, T6bbWWoff</td><td>5</td><td>7.10 +/- 3.80</td><td style="text-align:right">-0.6 &sigma;</td><td style="text-align:right">X<sup>1</sup><sub>W</sub>, X<sup>2</sup><sub>Z</sub>, X<sup>1</sup><sub>Z</sub>, X<sub>t</sub></td></tr>
-<tr><td><a href=https://atlas.web.cern.ch/Atlas/GROUPS/PHYSICS/CONFNOTES/ATLAS-CONF-2013-061/>ATLAS-CONF-2013-061</a></td><td>em</td> <td>SR-0l-4j-A</td><td>T2tt</td><td>2</td><td>3.00 +/- 1.30</td><td style="text-align:right">-0.6 &sigma;</td><td style="text-align:right">X<sup>1</sup><sub>Z</sub>, X<sub>t</sub></td></tr>
-<tr><td><a href=https://atlas.web.cern.ch/Atlas/GROUPS/PHYSICS/PAPERS/SUSY-2013-04/>ATLAS-SUSY-2013-04</a></td><td>em</td> <td>GtGrid_SR_8ij80 ...</td><td>T2tt</td><td>1</td><td>1.50 +/- 0.90</td><td style="text-align:right">-0.6 &sigma;</td><td style="text-align:right">X<sup>1</sup><sub>Z</sub>, X<sub>t</sub></td></tr>
-<tr><td><a href=https://cms-results.web.cern.ch/cms-results/public-results/publications/SUS-13-012/index.html>CMS-SUS-13-012</a></td><td>em</td> <td>6NJet8_800HT100 ...</td><td>T2tt, T6bbWWoff</td><td>4</td><td>6.00 +/- 2.80</td><td style="text-align:right">-0.7 &sigma;</td><td style="text-align:right">X<sup>1</sup><sub>W</sub>, X<sup>2</sup><sub>Z</sub>, X<sup>1</sup><sub>Z</sub>, X<sub>t</sub></td></tr>
-<tr><td><a href=https://atlas.web.cern.ch/Atlas/GROUPS/PHYSICS/CONFNOTES/ATLAS-CONF-2013-062/>ATLAS-CONF-2013-062</a></td><td>em</td> <td>incHL6j_m</td><td>T2tt</td><td>0</td><td>1.70 +/- 0.60</td><td style="text-align:right">-0.8 &sigma;</td><td style="text-align:right">X<sup>2</sup><sub>Z</sub>, X<sub>t</sub></td></tr>
-<tr><td><a href=http://cms-results.web.cern.ch/cms-results/public-results/publications/SUS-16-033/index.html>CMS-SUS-16-033</a></td><td>em</td> <td>SR11_Njet7_Nb1_ ...</td><td>T2tt</td><td>890</td><td>969.00 +/- 80.00</td><td style="text-align:right">-0.9 &sigma;</td><td style="text-align:right">X<sup>1</sup><sub>Z</sub>, X<sub>t</sub></td></tr>
-<tr><td><a href=https://cms-results.web.cern.ch/cms-results/public-results/publications/SUS-13-012/index.html>CMS-SUS-13-012</a></td><td>em</td> <td>8NJetinf_1500HT ...</td><td>T2tt, T6bbWWoff</td><td>2</td><td>3.30 +/- 4.70</td><td style="text-align:right">-1.0 &sigma;</td><td style="text-align:right">X<sup>1</sup><sub>W</sub>, X<sup>1</sup><sub>Z</sub>, X<sub>t</sub></td></tr>
-<tr><td><a href=https://cms-results.web.cern.ch/cms-results/public-results/publications/SUS-13-012/index.html>CMS-SUS-13-012</a></td><td>em</td> <td>6NJet8_1250HT15 ...</td><td>T2tt, T6bbWWoff</td><td>5</td><td>9.40 +/- 3.60</td><td style="text-align:right">-1.1 &sigma;</td><td style="text-align:right">X<sup>1</sup><sub>W</sub>, X<sup>1</sup><sub>Z</sub>, X<sub>t</sub></td></tr>
-<tr><td><a href=http://cms-results.web.cern.ch/cms-results/public-results/publications/SUS-19-006/index.html>CMS-SUS-19-006-agg</a></td><td>comb</td> <td>-</td><td>T2tt</td><td> 2 fb </td><td> 2 fb</td><td style="text-align:right">-1.1 &sigma;</td><td style="text-align:right">X<sup>2</sup><sub>Z</sub>, X<sup>1</sup><sub>Z</sub>, X<sub>t</sub></td></tr>
-<tr><td><a href=https://atlas.web.cern.ch/Atlas/GROUPS/PHYSICS/PAPERS/SUSY-2013-04/>ATLAS-SUSY-2013-04</a></td><td>em</td> <td>GtGrid_SR_7ej80 ...</td><td>T2tt</td><td>13</td><td>25.00 +/- 10.00</td><td style="text-align:right">-1.2 &sigma;</td><td style="text-align:right">X<sup>2</sup><sub>Z</sub>, X<sub>t</sub></td></tr>
-<tr><td><a href=https://atlas.web.cern.ch/Atlas/GROUPS/PHYSICS/CONFNOTES/ATLAS-CONF-2013-024/>ATLAS-CONF-2013-024</a></td><td>em</td> <td>SR3: MET > 350</td><td>T2tt</td><td>1</td><td>2.70 +/- 1.20</td><td style="text-align:right">-1.2 &sigma;</td><td style="text-align:right">X<sup>1</sup><sub>Z</sub>, X<sub>t</sub></td></tr>
-<tr><td><a href=https://atlas.web.cern.ch/Atlas/GROUPS/PHYSICS/CONFNOTES/ATLAS-CONF-2013-062/>ATLAS-CONF-2013-062</a></td><td>em</td> <td>SL5j</td><td>T2tt</td><td>9</td><td>14.80 +/- 3.70</td><td style="text-align:right">-1.2 &sigma;</td><td style="text-align:right">X<sup>1</sup><sub>Z</sub>, X<sub>t</sub></td></tr>
-<tr><td><a href=https://cms-results.web.cern.ch/cms-results/public-results/publications/SUS-13-012/index.html>CMS-SUS-13-012</a></td><td>em</td> <td>6NJet8_1500HTin ...</td><td>T2tt, T6bbWWoff</td><td>3</td><td>7.90 +/- 3.60</td><td style="text-align:right">-1.3 &sigma;</td><td style="text-align:right">X<sup>1</sup><sub>W</sub>, X<sup>1</sup><sub>Z</sub>, X<sub>t</sub></td></tr>
-<tr><td><a href=https://atlas.web.cern.ch/Atlas/GROUPS/PHYSICS/CONFNOTES/ATLAS-CONF-2013-024/>ATLAS-CONF-2013-024</a></td><td>em</td> <td>SR2: MET > 300</td><td>T2tt</td><td>2</td><td>4.70 +/- 1.50</td><td style="text-align:right">-1.3 &sigma;</td><td style="text-align:right">X<sup>1</sup><sub>Z</sub>, X<sub>t</sub></td></tr>
+<tr><th>Not in Best Combo</th><th>Type</th><th>Dataset</th><th>Topos</th><th>Observed</th><th>Expected</th><th>Approx &sigma;</th><th>Particles</th><tr><td><a href=http://cms-results.web.cern.ch/cms-results/public-results/publications/SUS-19-006/index.html>CMS-SUS-19-006-agg</a></td><td>comb</td> <td>-</td><td>T2tt</td><td> 0.6 fb </td><td> 0.6 fb</td><td style="text-align:right">1.6 &sigma;</td><td style="text-align:right">X<sup>2</sup><sub>Z</sub>, X<sup>1</sup><sub>Z</sub>, X<sub>t</sub></td></tr>
 </table>

diff --git a/protomodels/rundir5_320/index.html b/protomodels/rundir5_320/index.html
@@ -1,27 +1,27 @@
 <html>
 <body>
 <center>
-<table><td><h1>Current best protomodel: <i>K</i>=16.40, <i>TL</i>=23.90</h1><td><img height=60px src=https://smodels.github.io//protomodels/logos/protomodel_lego.png></table>
+<table><td><h1>Current best protomodel: <i>K</i>=11.88, <i>TL</i>=22.13</h1><td><img height=60px src=https://smodels.github.io//protomodels/logos/protomodel_lego.png></table>
 </center>
-<b><a href=./hiscore.slha>ProtoModel</a> <a href=./pmodel.dict>(dict)</a> produced with <a href=https://smodels.github.io//docs/Validation320>database v3.2.0</a>, allowed_extr 0.05 in walker 501 step 930.</b> <br>
+<b><a href=./hiscore.slha>ProtoModel</a> <a href=./pmodel.dict>(dict)</a> produced with <a href=https://smodels.github.io//docs/Validation320>database v3.2.0</a>, allowed_extr 0.05 in walker 506 step 998.</b> <br>
 <table width=80%>
 <tr><td>
 <br><b>Critics:</b> passed both critics<br>
-<br><b>UL Critic: 1/4 analyses exclude</b><br>
-ATLAS-EXOT-2018-06:EM5:: <span style='color: darkred;'>r<sub>obs</sub>=1.788, r<sub>exp</sub>=1.853</span><br>
-CMS-SUS-20-002:ul:: <span style='color: darkgreen;'>r<sub>obs</sub>=1.222, r<sub>exp</sub>=1.043</span><br>
-CMS-SUS-19-010:ul:: <span style='color: darkgreen;'>r<sub>obs</sub>=0.782, r<sub>exp</sub>=0.683</span><br>
-<br><b>LLHD Critic:</b> ATLAS-EXOT-2018-06:EM5, CMS-EXO-20-004:matrix.cov, CMS-SUS-20-004:matrix.cov, ATLAS-SUSY-2018-12:SRBTT, ATLAS-SUSY-2016-16:tN_med, CMS-SUS-16-050-agg:matrix.cov, ATLAS-SUSY-2018-08:SRDF220:: <span style='color: darkred;'>r<sub>obs</sub>=1.21, r<sub>exp</sub>=3.11</span><br>
+<br><b>UL Critic: 1/2 analyses exclude</b><br>
+ATLAS-EXOT-2018-06:EM2:: <span style='color: darkred;'>r<sub>obs</sub>=1.747, r<sub>exp</sub>=1.747</span><br>
+CMS-SUS-20-004:ul:: <span style='color: darkgreen;'>r<sub>obs</sub>=0.591, r<sub>exp</sub>=1.168</span><br>
+CMS-EXO-20-004:SR_2018_16:: <span style='color: darkgreen;'>r<sub>obs</sub>=0.36, r<sub>exp</sub>=0.584</span><br>
+<br><b>LLHD Critic:</b> ATLAS-EXOT-2018-06:EM2, CMS-EXO-20-004:matrix.cov, CMS-SUS-20-004:matrix.cov, ATLAS-SUSY-2018-16-hino:SR_ewk_2l_high:: <span style='color: darkred;'>r<sub>obs</sub>=1.08, r<sub>exp</sub>=2.73</span><br>
 </ul>
-<td><img width=600px src=./texdoc.png?1790752521>
-<br><span style='font-size: smaller; color: darkred;'>Last updated: Wed Sep 30 09:15:21 2026</span>
-<br><br><b>48 predictions available. Highest r values are:</b><br><ul>
-<li><a href=https://atlas.web.cern.ch/Atlas/GROUPS/PHYSICS/PAPERS/EXOT-2018-06/>ATLAS-EXOT-2018-06</a>:EM5:TChiISR,TChiZISRqq r=1.79, r<sub>exp</sub>=1.85<br>
-<li><a href=http://cms-results.web.cern.ch/cms-results/public-results/publications/SUS-20-002/index.html>CMS-SUS-20-002</a>:ul:T2tt r=1.22, r<sub>exp</sub>=1.04<br>
-<li><a href=http://cms-results.web.cern.ch/cms-results/public-results/publications/SUS-19-010/index.html>CMS-SUS-19-010</a>:ul:T2tt r=0.78, r<sub>exp</sub>=0.68<br>
-<li><a href=http://cms-results.web.cern.ch/cms-results/public-results/publications/SUS-19-009/index.html>CMS-SUS-19-009</a>:ul:T2tt r=0.74, r<sub>exp</sub>=0.74<br>
+<td><img width=600px src=./texdoc.png?1790763238>
+<br><span style='font-size: smaller; color: darkred;'>Last updated: Wed Sep 30 12:13:58 2026</span>
+<br><br><b>9 predictions available. Highest r values are:</b><br><ul>
+<li><a href=https://atlas.web.cern.ch/Atlas/GROUPS/PHYSICS/PAPERS/EXOT-2018-06/>ATLAS-EXOT-2018-06</a>:EM2:TChiISR,TChiZISRll,TChiZISRqq r=1.75, r<sub>exp</sub>=1.75<br>
+<li><a href=http://cms-results.web.cern.ch/cms-results/public-results/publications/SUS-20-004/>CMS-SUS-20-004</a>:ul:TChiHH r=0.59, r<sub>exp</sub>=1.17<br>
+<li><a href=http://cms-results.web.cern.ch/cms-results/public-results/publications/EXO-20-004/>CMS-EXO-20-004</a>:SR_2018_16:TChiISR,TChiZISRll,TChiZISRqq r=0.36, r<sub>exp</sub>=0.58<br>
+<li><a href=https://atlas.web.cern.ch/Atlas/GROUPS/PHYSICS/PAPERS/SUSY-2018-16/>ATLAS-SUSY-2018-16-hino</a>:SR_ewk_2l_high:TChiZoff r=0.20, r<sub>exp</sub>=0.19<br>
 </table><table style="width:80%">
-<td width=40%><img height=450px src=./mass_hierarchy.png?1790752521><td width=60%><font size=-3><iframe type="text/html" height="350px" width="100%" frameborder="0" src="./rawnumbers.html?1790752521"></iframe></font>
+<td width=40%><img height=450px src=./mass_hierarchy.png?1790763238><td width=60%><font size=-3><iframe type="text/html" height="350px" width="100%" frameborder="0" src="./rawnumbers.html?1790763238"></iframe></font>
 </table>
 </body>
 </html>
